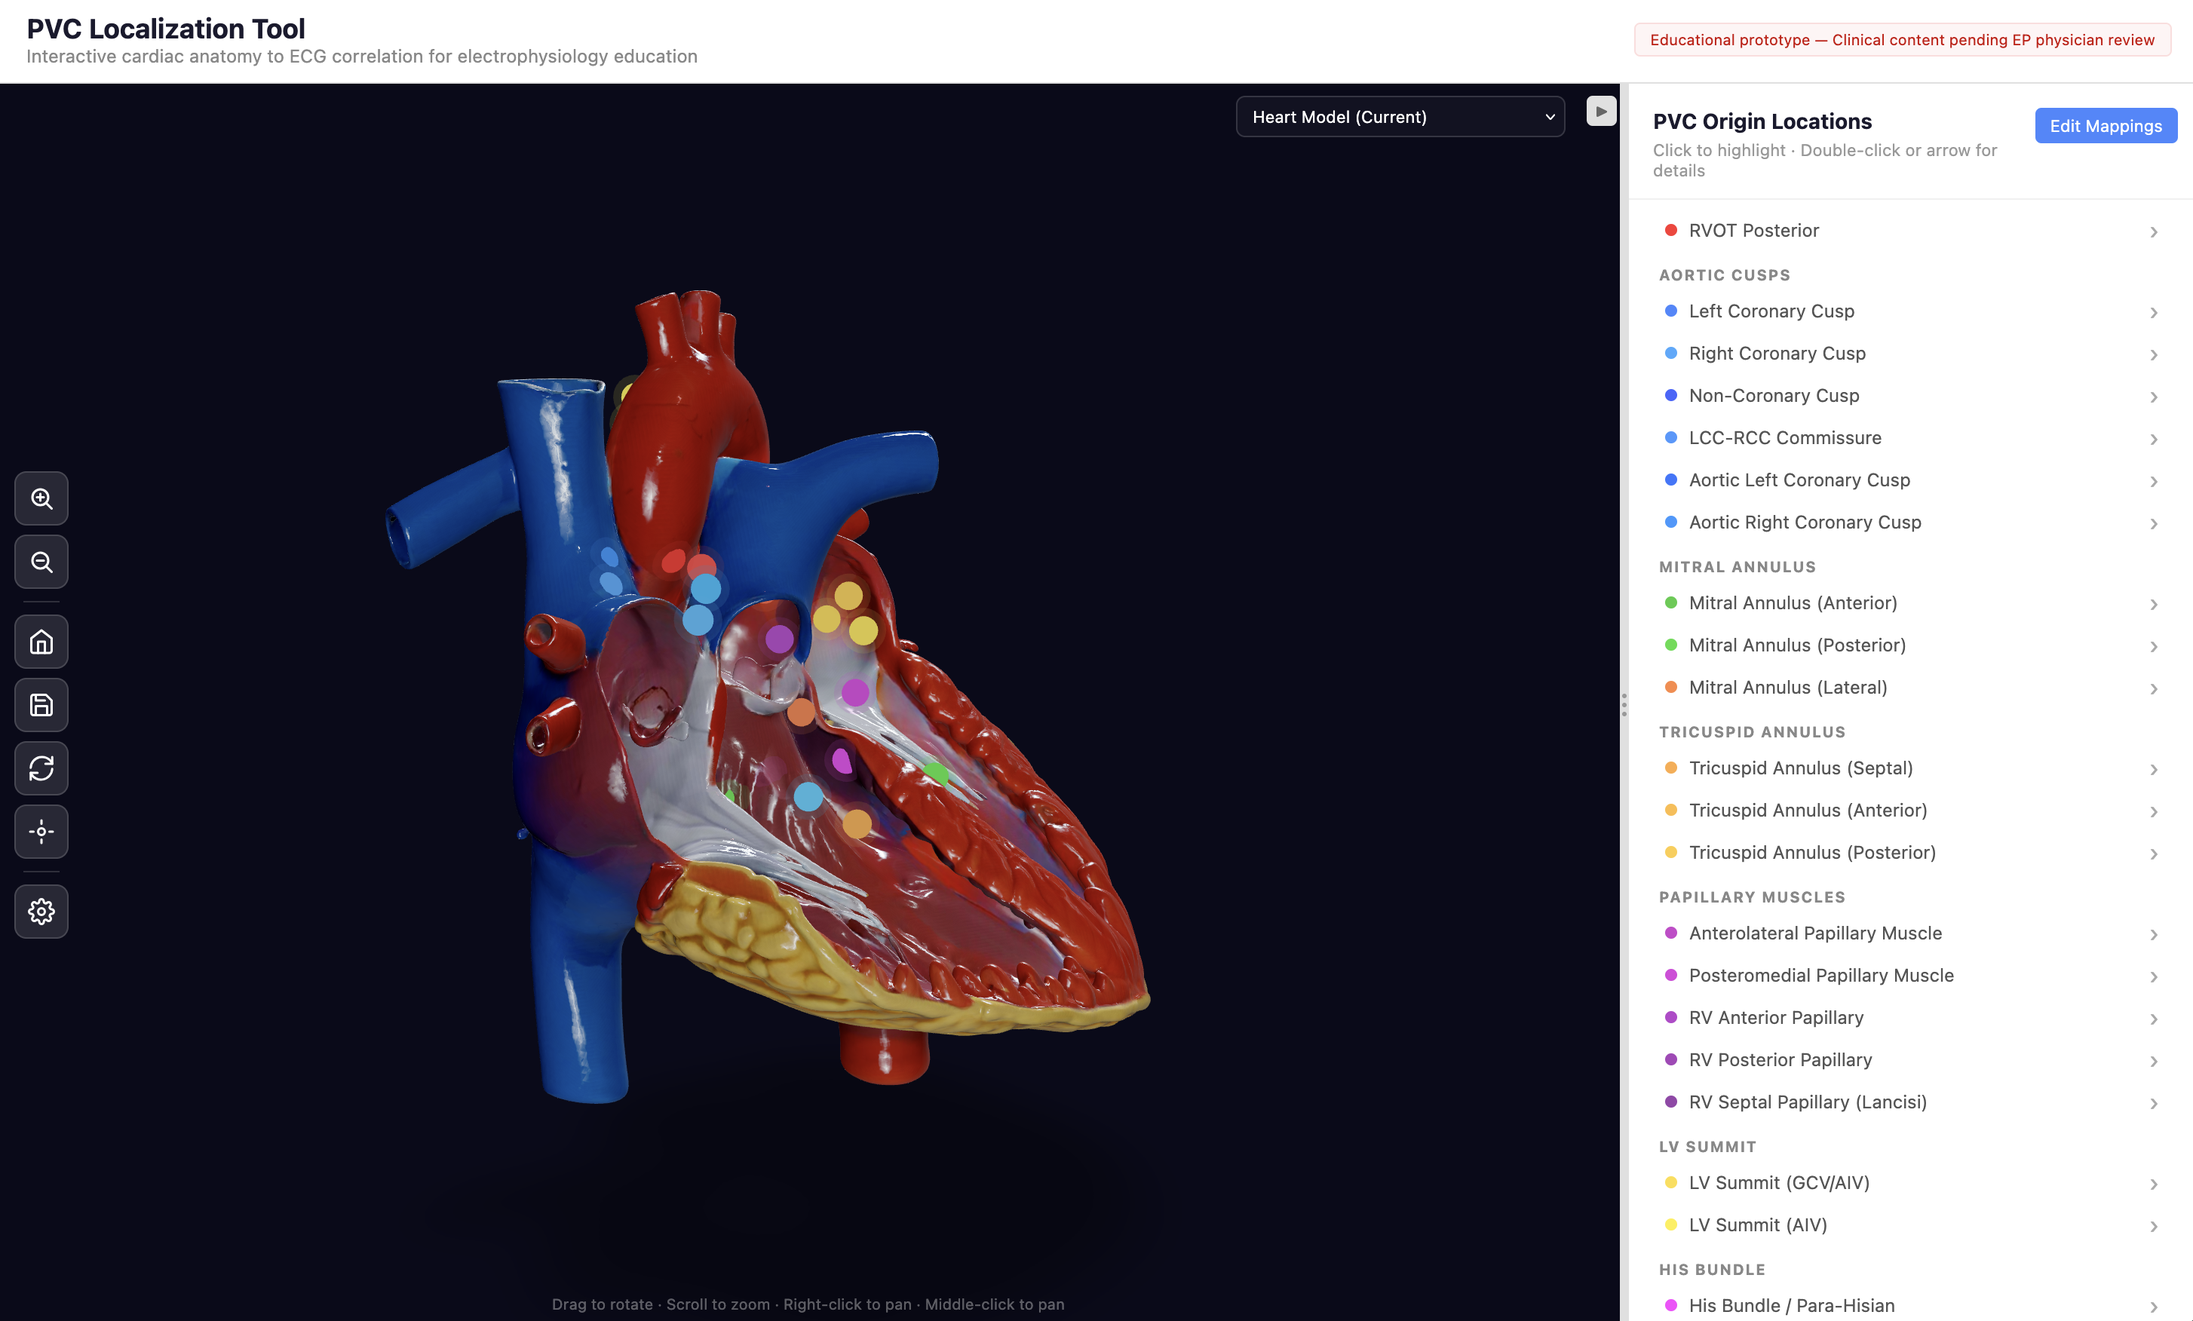
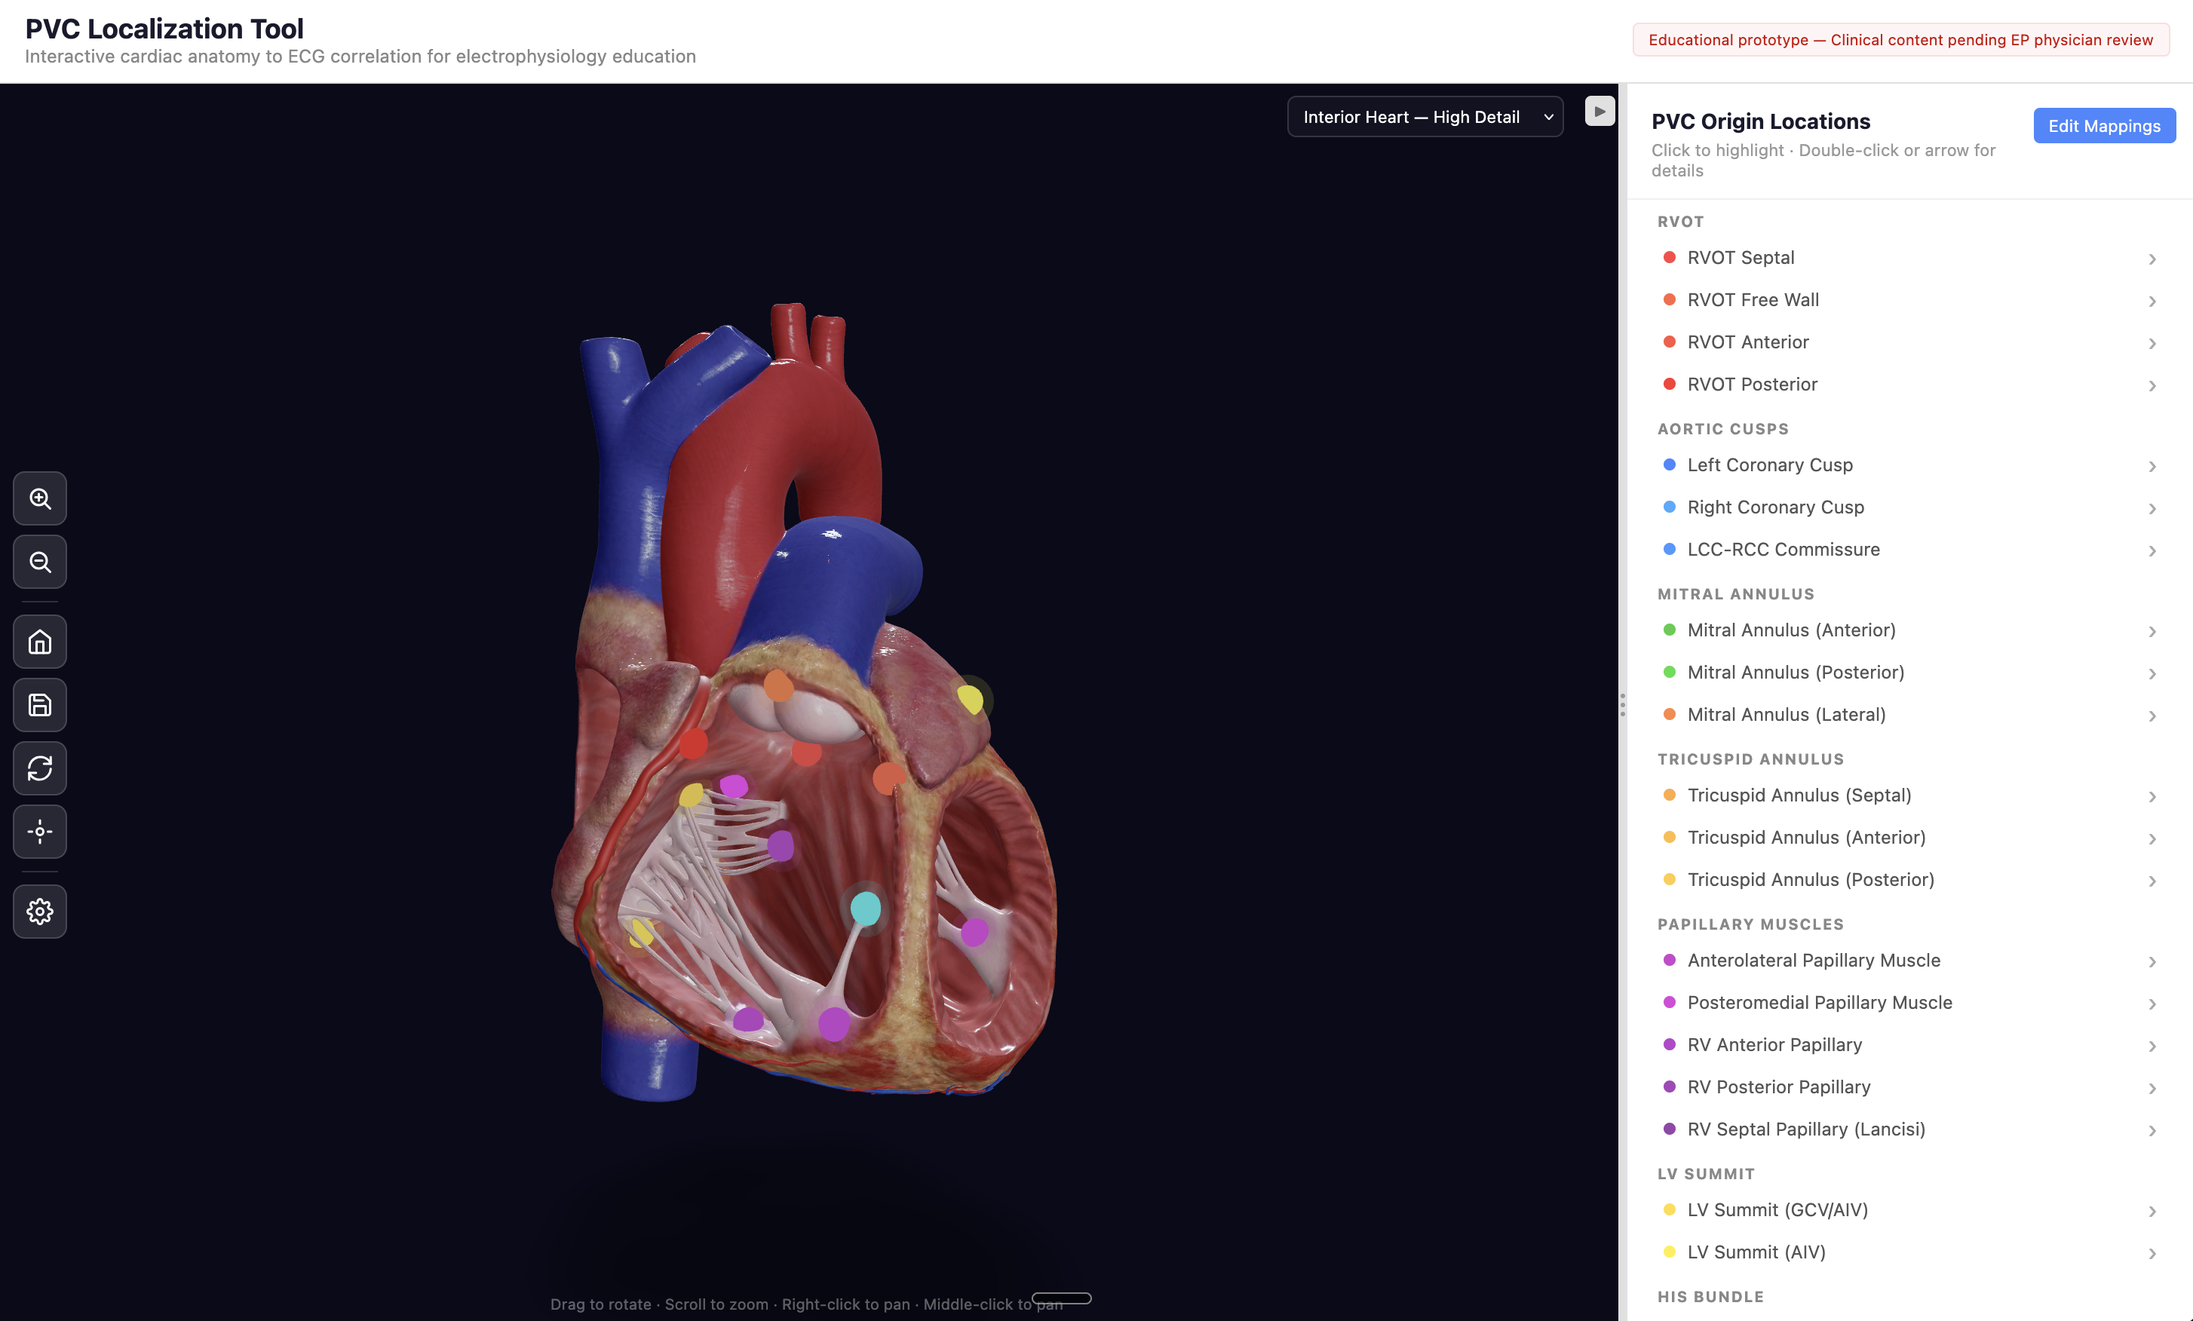
feat: alternate model and improved mapping for the new model.

diff --git a/src/data/pvcOrigins.ts b/src/data/pvcOrigins.ts
@@ -173,7 +173,7 @@ export const pvcOrigins: PVCOrigin[] = [
       "PVCs from the left coronary cusp (LCC) of the aortic valve arise from myocardial extensions into the aortic root. The LCC is positioned leftward and posterior relative to the RCC. LCC PVCs are distinguished from RVOT PVCs by their earlier precordial transition and taller R waves in V1-V2, reflecting the more leftward and posterior origin. The left main coronary artery ostium is typically 10-15mm above the cusp nadir, which is an important safety consideration during ablation.",
     ablationApproach:
       "Approached retrograde via the femoral artery through the aorta to the aortic root. A coronary angiogram or CT is recommended before ablation to define the relationship of the coronary ostia to the ablation target. Ablation within the cusp is generally safe if the catheter tip is >10mm from the coronary ostium. ICE guidance is strongly recommended. Success rates exceed 85%.",
-    differentialLocations: ["lvot-rcc", "aortic-ncc", "rvot-septal"],
+    differentialLocations: ["lvot-rcc", "rvot-septal"],
     prevalence: "~15-20% of outflow tract PVCs overall",
     references: [
       {
@@ -231,44 +231,6 @@ export const pvcOrigins: PVCOrigin[] = [
         year: 2008,
         doi: "10.1016/j.jacc.2008.08.040",
         relevance: "ECG differentiation of RCC vs LCC vs NCC origins",
-      },
-    ],
-    reviewStatus: { status: "draft", reviewedBy: null, reviewDate: null },
-  },
-  {
-    id: "aortic-ncc",
-    name: "Non-Coronary Cusp",
-    fullName: "Aortic Valve — Non-Coronary Cusp",
-    category: "Aortic Cusps",
-    hotspotPosition: [-0.1, 1.55, -0.05],
-    hotspotColor: "#4466ff",
-    ecgImage: null,
-    ecgFeatures: {
-      axis: "Inferior axis, may have rightward axis (positive in II/III, negative in aVL)",
-      morphology: "Variable — can be LBBB or RBBB pattern in V1",
-      transition: "Early transition (V1–V3)",
-      otherFeatures: [
-        "Often has a W-shaped QRS in V1",
-        "Tends to have more leftward axis than LCC or RCC origins",
-        "QRS may be relatively narrow",
-        "Least common cusp origin for PVCs",
-      ],
-    },
-    description:
-      "The non-coronary cusp (NCC) is the most posterior aortic cusp and is in direct continuity with the interatrial septum and the mitral-aortic intervalvular fibrosa. PVCs from the NCC are less common than LCC or RCC origins. The NCC's posterior position means PVCs may have a more rightward frontal plane axis compared to other cusp origins. The NCC lacks a coronary ostium but lies adjacent to the AV node and His bundle.",
-    ablationApproach:
-      "Approached retrograde via the femoral artery. The NCC is the most posterior cusp and is adjacent to the interatrial septum. Proximity to the AV node/His bundle is the primary safety concern. AV block can occur if ablation is performed too inferiorly. Careful electrophysiologic mapping with attention to His bundle electrograms is essential. ICE guidance recommended.",
-    differentialLocations: ["lvot-lcc", "lvot-rcc", "his-bundle"],
-    prevalence: "Least common cusp origin",
-    references: [
-      {
-        id: "yamada-2008",
-        authors: "Yamada T, McElderry HT, Doppalapudi H, et al.",
-        title: "Idiopathic ventricular arrhythmias originating from the aortic sinus cusp",
-        journal: "J Am Coll Cardiol",
-        year: 2008,
-        doi: "10.1016/j.jacc.2008.08.040",
-        relevance: "NCC PVC characteristics and ablation",
       },
     ],
     reviewStatus: { status: "draft", reviewedBy: null, reviewDate: null },
@@ -776,102 +738,6 @@ export const pvcOrigins: PVCOrigin[] = [
         year: 2002,
         doi: "10.1016/S0735-1097(02)02236-0",
         relevance: "Anatomic description of the commissural region as a PVC origin site",
-      },
-    ],
-    reviewStatus: { status: "draft", reviewedBy: null, reviewDate: null },
-  },
-  {
-    id: "aortic-lcc",
-    name: "Aortic Left Coronary Cusp",
-    fullName: "Aortic Valve — Left Coronary Cusp",
-    category: "Aortic Cusps",
-    hotspotPosition: [0, 0, 0],
-    hotspotColor: "#3377ff",
-    ecgImage: null,
-    ecgFeatures: {
-      axis: "Inferior axis (tall R in II, III, aVF)",
-      morphology: "RBBB or multiphasic pattern in V1 (R, Rs, or M-shaped)",
-      transition: "Early precordial transition (V1–V2)",
-      otherFeatures: [
-        "Prominent R wave in V1/V2 — tallest among the cusp origins",
-        "R/S ratio > 1 in V1",
-        "V1 R-wave duration index > 50% and amplitude index > 30%",
-        "Left main coronary ostium is the nearest coronary landmark (typically 10-15mm above cusp nadir)",
-        "No Q wave in lead I",
-      ],
-    },
-    description:
-      "The aortic left coronary cusp (LCC) is a semilunar valve leaflet from which the left main coronary artery arises. This entry emphasizes the cusp-level anatomy — the LCC is positioned leftward and posteriorly within the aortic root, and PVCs arise from vestigial myocardial extensions that persist at the ventricular-aortic junction along the cusp base. The cusp itself is avascular, but the sinus of Valsalva wall contains the arrhythmogenic muscle fibers that connect to the adjacent LV myocardium.",
-    ablationApproach:
-      "Approached retrograde via the femoral artery with the catheter positioned within the left coronary sinus of Valsalva. Mapping is performed on the cusp tissue itself at the nadir and along the hinge point. Coronary angiography or CT coronary imaging is mandatory to define the left main ostium location before energy delivery. Ablation is performed with low to moderate power (25-35W) and irrigated-tip catheters. Success rate exceeds 85% when the earliest activation is identified at the cusp level.",
-    differentialLocations: ["lvot-lcc", "lvot-rcc", "aortic-rcc", "aortic-ncc", "lv-summit-gcv"],
-    prevalence: "~15-20% of outflow tract PVCs (combined with LVOT-LCC)",
-    references: [
-      {
-        id: "yamada-2008",
-        authors: "Yamada T, McElderry HT, Doppalapudi H, et al.",
-        title: "Idiopathic ventricular arrhythmias originating from the aortic sinus cusp: electrocardiographic and electrophysiologic characteristics and outcome of catheter ablation",
-        journal: "J Am Coll Cardiol",
-        year: 2008,
-        doi: "10.1016/j.jacc.2008.08.040",
-        relevance: "Definitive paper on cusp-level PVC characteristics with anatomic correlations",
-      },
-      {
-        id: "hasdemir-2007",
-        authors: "Hasdemir C, Aktas S, Govsa F, et al.",
-        title: "Demonstration of ventricular myocardial extensions into the pulmonary artery and aorta beyond the ventriculo-arterial junction",
-        journal: "Pacing Clin Electrophysiol",
-        year: 2007,
-        doi: "10.1111/j.1540-8159.2007.00866.x",
-        relevance: "Anatomic basis for cusp-level arrhythmogenesis from myocardial sleeves",
-      },
-    ],
-    reviewStatus: { status: "draft", reviewedBy: null, reviewDate: null },
-  },
-  {
-    id: "aortic-rcc",
-    name: "Aortic Right Coronary Cusp",
-    fullName: "Aortic Valve — Right Coronary Cusp",
-    category: "Aortic Cusps",
-    hotspotPosition: [0, 0, 0],
-    hotspotColor: "#3399ff",
-    ecgImage: null,
-    ecgFeatures: {
-      axis: "Inferior axis (tall R in II, III, aVF)",
-      morphology: "LBBB or transitional pattern in V1 (W-shaped, rs, or rS)",
-      transition: "Early precordial transition (V1–V3), earlier than RVOT septal",
-      otherFeatures: [
-        "R wave in V1 present but smaller than aortic-LCC origin",
-        "Most anterior cusp — sits directly behind the RVOT septum",
-        "ECG may closely mimic RVOT septal PVCs; failed RVOT ablation should prompt RCC mapping",
-        "His bundle lies inferior to the RCC; proximity must be assessed",
-        "Right coronary artery ostium is the nearest coronary landmark",
-      ],
-    },
-    description:
-      "The aortic right coronary cusp (RCC) is the most anterior semilunar valve leaflet, from which the right coronary artery originates. The RCC is separated from the RVOT septum by only a thin layer of fibrous tissue, explaining the ECG overlap between these two sites. Myocardial extensions from the ventricular myocardium onto the aortic root at the RCC base form the arrhythmogenic substrate. The His bundle traverses inferior to the RCC at the membranous septum, making this an important safety landmark.",
-    ablationApproach:
-      "Approached retrograde via the femoral artery. The catheter is advanced into the right coronary sinus of Valsalva and positioned at the cusp nadir or hinge point. Coronary angiography is required to define the RCA ostium location. The His bundle electrogram should be mapped and monitored continuously; pacing from the ablation catheter should confirm absence of His capture before energy delivery. Success rate is approximately 85-90%.",
-    differentialLocations: ["lvot-rcc", "rvot-septal", "lvot-lcc", "aortic-lcc", "his-bundle"],
-    prevalence: "Less common than LCC as a PVC origin; subset of cusp PVCs",
-    references: [
-      {
-        id: "yamada-2008",
-        authors: "Yamada T, McElderry HT, Doppalapudi H, et al.",
-        title: "Idiopathic ventricular arrhythmias originating from the aortic sinus cusp: electrocardiographic and electrophysiologic characteristics and outcome of catheter ablation",
-        journal: "J Am Coll Cardiol",
-        year: 2008,
-        doi: "10.1016/j.jacc.2008.08.040",
-        relevance: "RCC PVC characteristics with comparison to LCC and NCC origins",
-      },
-      {
-        id: "lin-2008",
-        authors: "Lin D, Ilkhanoff L, Gerstenfeld E, et al.",
-        title: "Twelve-lead electrocardiographic characteristics of the aortic cusp region guided by intracardiac echocardiography and electroanatomic mapping",
-        journal: "Heart Rhythm",
-        year: 2008,
-        doi: "10.1016/j.hrthm.2008.02.009",
-        relevance: "ICE-guided cusp mapping with anatomic correlation of RCC vs RVOT",
       },
     ],
     reviewStatus: { status: "draft", reviewedBy: null, reviewDate: null },

diff --git a/src/data/ecgProfiles.ts b/src/data/ecgProfiles.ts
@@ -146,53 +146,6 @@ export const ECG_PROFILES: Record<string, ECGProfile> = {
     V6:   { qrs: 0.7,  initial: 0,    terminal: -0.1, width: 1.1, notch: false },
   },
 
-  // Yamada 2008: M/W in V1, tallest R among cusps, negative lead I
-  "aortic-lcc": {
-    I:    { qrs: -0.4, initial: 0,    terminal: -0.1, width: 1.1, notch: false },
-    II:   { qrs: 0.8,  initial: 0,    terminal: -0.1, width: 1.1, notch: false },
-    III:  { qrs: 0.9,  initial: 0,    terminal: -0.1, width: 1.1, notch: false },
-    aVR:  { qrs: -0.5, initial: 0,    terminal: 0,    width: 1.1, notch: false },
-    aVL:  { qrs: -0.7, initial: 0,    terminal: 0,    width: 1.1, notch: false },
-    aVF:  { qrs: 0.9,  initial: 0,    terminal: -0.1, width: 1.1, notch: false },
-    V1:   { qrs: 0.7,  initial: 0,    terminal: -0.3, width: 1.1, notch: true  },
-    V2:   { qrs: 0.8,  initial: 0,    terminal: -0.2, width: 1.1, notch: false },
-    V3:   { qrs: 0.9,  initial: 0,    terminal: -0.1, width: 1.1, notch: false },
-    V4:   { qrs: 0.9,  initial: 0,    terminal: -0.1, width: 1.1, notch: false },
-    V5:   { qrs: 0.8,  initial: 0,    terminal: -0.1, width: 1.1, notch: false },
-    V6:   { qrs: 0.6,  initial: 0,    terminal: -0.1, width: 1.1, notch: false },
-  },
-
-  // Yamada 2008: LBBB, transition V2-V3, lead I slightly positive
-  "aortic-rcc": {
-    I:    { qrs: 0.2,  initial: 0,    terminal: -0.1, width: 1.1, notch: false },
-    II:   { qrs: 0.9,  initial: 0,    terminal: -0.1, width: 1.1, notch: false },
-    III:  { qrs: 0.8,  initial: 0,    terminal: -0.1, width: 1.1, notch: false },
-    aVR:  { qrs: -0.7, initial: 0,    terminal: 0,    width: 1.1, notch: false },
-    aVL:  { qrs: -0.3, initial: 0,    terminal: 0,    width: 1.1, notch: false },
-    aVF:  { qrs: 0.9,  initial: 0,    terminal: -0.1, width: 1.1, notch: false },
-    V1:   { qrs: -0.4, initial: 0.2,  terminal: 0,    width: 1.1, notch: false },
-    V2:   { qrs: 0.4,  initial: 0.2,  terminal: -0.2, width: 1.1, notch: false },
-    V3:   { qrs: 0.8,  initial: 0.1,  terminal: -0.1, width: 1.1, notch: false },
-    V4:   { qrs: 0.9,  initial: 0,    terminal: -0.1, width: 1.1, notch: false },
-    V5:   { qrs: 0.8,  initial: 0,    terminal: -0.1, width: 1.1, notch: false },
-    V6:   { qrs: 0.7,  initial: 0,    terminal: -0.1, width: 1.1, notch: false },
-  },
-
-  // Yamada 2008: near-His, narrower QRS, M-pattern V1
-  "aortic-ncc": {
-    I:    { qrs: 0.1,  initial: 0,    terminal: -0.1, width: 1.0, notch: false },
-    II:   { qrs: 0.7,  initial: 0,    terminal: -0.1, width: 1.0, notch: false },
-    III:  { qrs: 0.7,  initial: 0,    terminal: -0.1, width: 1.0, notch: false },
-    aVR:  { qrs: -0.6, initial: 0,    terminal: 0,    width: 1.0, notch: false },
-    aVL:  { qrs: -0.3, initial: 0,    terminal: 0,    width: 1.0, notch: false },
-    aVF:  { qrs: 0.7,  initial: 0,    terminal: -0.1, width: 1.0, notch: false },
-    V1:   { qrs: -0.6, initial: 0.2,  terminal: 0.2,  width: 1.0, notch: true  },
-    V2:   { qrs: -0.3, initial: 0.2,  terminal: 0,    width: 1.0, notch: false },
-    V3:   { qrs: 0.5,  initial: 0.2,  terminal: -0.2, width: 1.0, notch: false },
-    V4:   { qrs: 0.8,  initial: 0.1,  terminal: -0.1, width: 1.0, notch: false },
-    V5:   { qrs: 0.7,  initial: 0,    terminal: -0.1, width: 1.0, notch: false },
-    V6:   { qrs: 0.6,  initial: 0,    terminal: -0.1, width: 1.0, notch: false },
-  },
 
   // ── Mitral Annulus ────────────────────────────────────────────────────
   // Tada 2005: RBBB, superior axis, negative inferior leads

diff --git a/src/data/modelConfigs.ts b/src/data/modelConfigs.ts
@@ -39,9 +39,6 @@ export const ORIGIN_IDS = [
   "lvot-lcc",
   "lvot-rcc",
   "lvot-lcc-rcc",
-  "aortic-lcc",
-  "aortic-rcc",
-  "aortic-ncc",
   // Mitral Annulus
   "mitral-anterior",
   "mitral-posterior",
@@ -94,9 +91,6 @@ const heartCurrent: ModelConfig = {
     "lvot-lcc": [-0.380, 0.360, 0.394],
     "lvot-rcc": [0.064, -0.220, 0.124],
     "lvot-lcc-rcc": [-0.160, 0.280, 0.310],
-    "aortic-lcc": [-0.420, 0.420, 0.350],
-    "aortic-rcc": [-0.200, 0.340, 0.200],
-    "aortic-ncc": [0.446, -0.746, -0.479],
     // Mitral Annulus
     "mitral-anterior": [-0.175, -0.252, 0.138],
     "mitral-posterior": [0.296, -0.225, -0.207],
@@ -122,14 +116,39 @@ const heartCurrent: ModelConfig = {
   }
 };
 
-const heartLarge: ModelConfig = {
-  id: "heart-large",
-  name: "Detailed Anatomical Heart (Large)",
-  file: "models/heart-0.glb",
-  hiddenMeshes: [0, 2, 6, 22, 23, 30],
+const interiorHeartHighDetail: ModelConfig = {
+  id: "interior-heart-high-detail",
+  name: "Interior Heart — High Detail",
+  file: "models/interior_heart_optimized.glb",
+  hiddenMeshes: [],
   scale: null,
   positionOffset: null,
-  hotspotPositions: blankHotspots(),
+  // hotspotPositions: blankHotspots(),
+  hotspotPositions: {
+    "rvot-septal": [0.056, -0.095, 0.267],
+    "rvot-freewall": [0.055, 0.102, 0.570],
+    "rvot-anterior": [0.309, -0.121, 0.517],
+    "rvot-posterior": [-0.166, -0.042, 0.558],
+    "lvot-lcc": [0.023, -0.066, -0.053],
+    "lvot-rcc": [0.066, -0.096, 0.167],
+    "lvot-lcc-rcc": [0.085, -0.016, 0.048],
+    "mitral-anterior": [0.258, -0.210, -0.111],
+    "mitral-posterior": [-0.035, -0.610, -0.195],
+    "mitral-lateral": [0.190, -0.438, -0.240],
+    "tricuspid-septal": [-0.245, -0.462, 0.030],
+    "tricuspid-anterior": [-0.251, -0.204, 0.302],
+    "tricuspid-posterior": [-0.404, -0.599, 0.249],
+    "papillary-anterolateral": [0.485, -0.582, 0.140],
+    "papillary-posteromedial": [0.337, -0.498, 0.394],
+    "papillary-rv-anterior": [0.204, -0.687, 0.651],
+    "papillary-rv-posterior": [-0.052, -0.760, 0.462],
+    "papillary-rv-septal": [0.000, -0.336, 0.306],
+    "lv-summit-gcv": [0.312, -0.016, -0.014],
+    "lv-summit-aiv": [0.467, 0.043, 0.254],
+    "his-bundle": [-0.139, -0.185, 0.254],
+    "moderator-band": [0.267, -0.424, 0.578],
+    "crux": [-0.166, -0.704, 0.016]
+  },
 };
 
 const heartMedium: ModelConfig = {
@@ -156,13 +175,13 @@ const heartSmall: ModelConfig = {
 
 export const modelConfigs: Record<string, ModelConfig> = {
   "heart-current": heartCurrent,
-  "heart-large": heartLarge,
+  "interior-heart-high-detail": interiorHeartHighDetail,
   "heart-medium": heartMedium,
   "heart-small": heartSmall,
 };
 
 /** Which model to use — change this to swap models */
-export const activeModelId = "heart-current";
+export const activeModelId = "interior-heart-high-detail";
 
 export function getActiveModelConfig(): ModelConfig {
   return modelConfigs[activeModelId];
